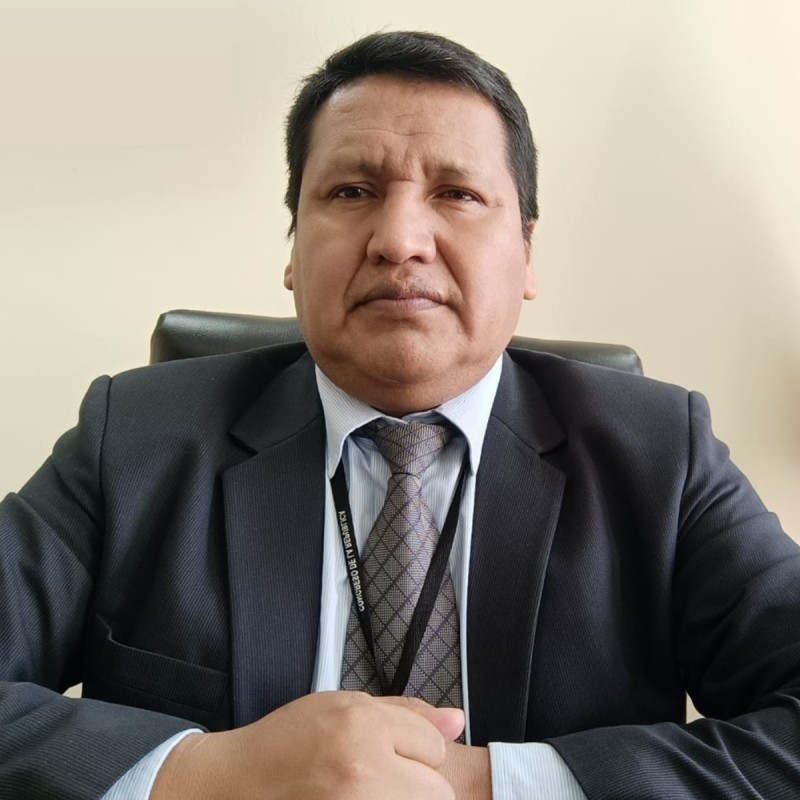
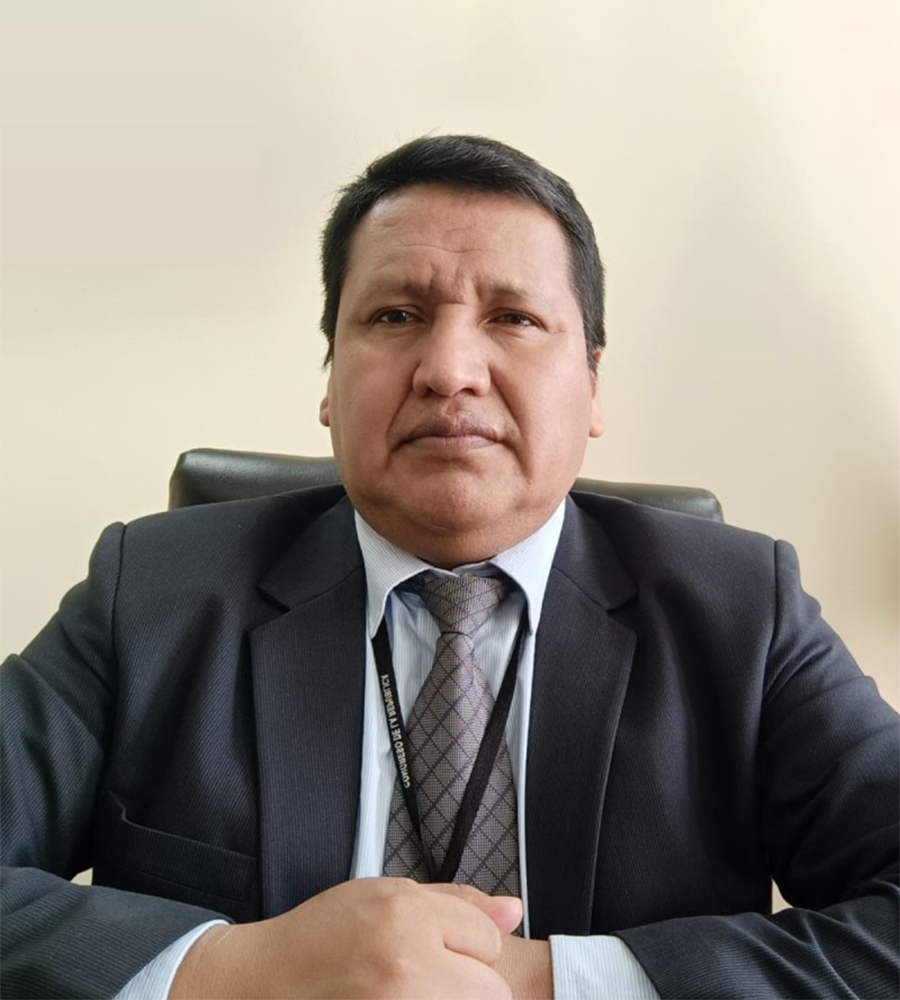
agregando imagenes webp de los ponentes

diff --git a/src/components/sections/environment/data.ts b/src/components/sections/environment/data.ts
@@ -4,15 +4,7 @@ export const environmentalImpactSection = {
   title: "BIENVENIDA",
   subheading1_1: "Congreso Tecnologico ",
   subheading1_2: "UNAMAD",
-  description:
-    "Es un honor darte la bienvenida a este espacio virtual, diseñado como la puerta de acceso a un emocionante evento donde se reunirán algunas de las mentes más brillantes en el campo de la informática. Durante los días 15, 16 y 17 de octubre de 2024, la Universidad Nacional Amazónica de Madre de Dios (UNAMAD) se convertirá en el epicentro de la innovación, el aprendizaje y la colaboración en plena selva amazónica.Prepárate para sumergirte en ponencias enriquecedoras, participar en sesiones interactivas y establecer conexiones valiosas con profesionales, expertos y estudiantes de universidades e instituciones invitadas. El Congreso Internacional de Informática de la Amazonía 2024 en la UNAMAD será una experiencia única que ampliará tus conocimientos y abrirá nuevas puertas hacia el futuro de la informática en la región amazónica.",
-  impactPoints: [
-    // "Reducing Carbon Emissions",
-    // "Conserving Natural Resources",
-    // "Preserving Biodiversity",
-    // "Mitigating Climate Change",
-    // "Promoting a Cleaner and Healthier Planet",
-  ],
+  description: "Es un honor darte la bienvenida a este espacio virtual, diseñado como la puerta de acceso a un emocionante evento donde se reunirán algunas de las mentes más brillantes en el campo de la informática. Durante los días 15, 16 y 17 de octubre de 2024, la Universidad Nacional Amazónica de Madre de Dios (UNAMAD) se convertirá en el epicentro de la innovación, el aprendizaje y la colaboración en plena selva amazónica.Prepárate para sumergirte en ponencias enriquecedoras, participar en sesiones interactivas y establecer conexiones valiosas con profesionales, expertos y estudiantes de universidades e instituciones invitadas. El Congreso Internacional de Informática de la Amazonía 2024 en la UNAMAD será una experiencia única que ampliará tus conocimientos y abrirá nuevas puertas hacia el futuro de la informática en la región amazónica.",
   visual: img,
   callToAction: "Join Us in Building a Sustainable Future",
   button: "INSCRIBIRSE",

diff --git a/src/components/sections/featured/ponentesData.ts b/src/components/sections/featured/ponentesData.ts
@@ -1,15 +1,15 @@
-import alvaro from "./assets/alvaro.jpg";
-import holgado from "./assets/luis alberto.jpg";
-import honorario from "./assets/honorio.jpg";
-import luis from "./assets/luis jose.jpg";
-import norma from "./assets/norma lorena.jpg";
-import romario from "./assets/romario diaz.png";
-import sillo from "./assets/sillo sosa.jpg";
-import yalmar from "./assets/yalmar temistoqles.jpg"
-import anselmo from "./assets/anselmo rodriguez.jpg"
-import baldo from "./assets/baldo luque.jpeg"
-import dany from "./assets/dany doriam.jpg"
-import jaime from "./assets/jaime cesar prieto.jpg"
+import alvaro from "./assets/alvaro.webp";
+import holgado from "./assets/luis alberto.webp";
+import honorario from "./assets/honorio.webp";
+import luis from "./assets/luis jose.webp";
+import norma from "./assets/norma lorena.webp";
+import romario from "./assets/romario diaz.webp";
+import sillo from "./assets/sillo sosa.webp";
+import yalmar from "./assets/yalmar temistoqles.webp"
+import anselmo from "./assets/anselmo rodriguez.webp"
+import baldo from "./assets/baldo luque.webp"
+import dany from "./assets/dany doriam.webp"
+import jaime from "./assets/jaime cesar prieto.webp"
 
 export const data = [
   {
